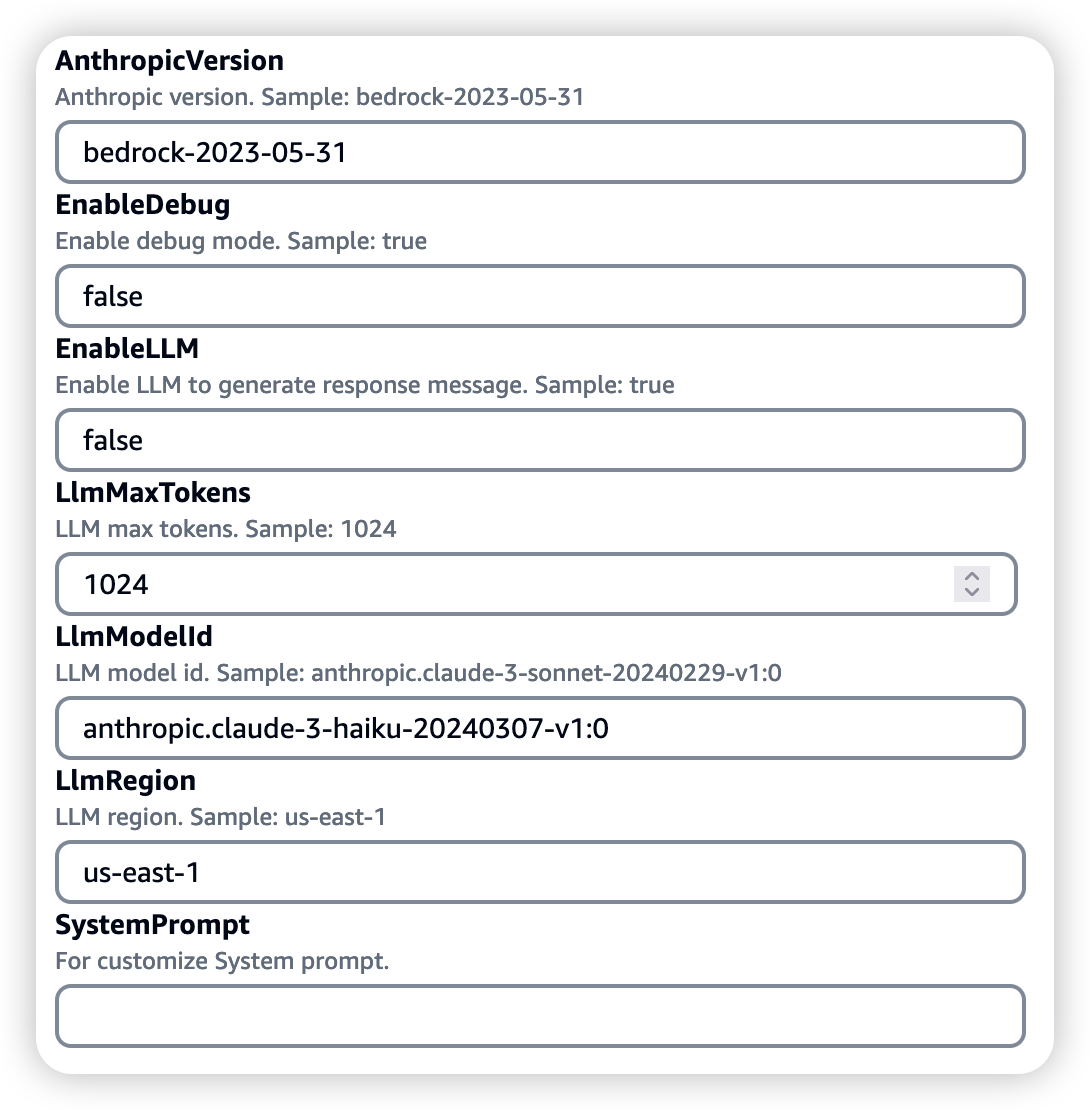
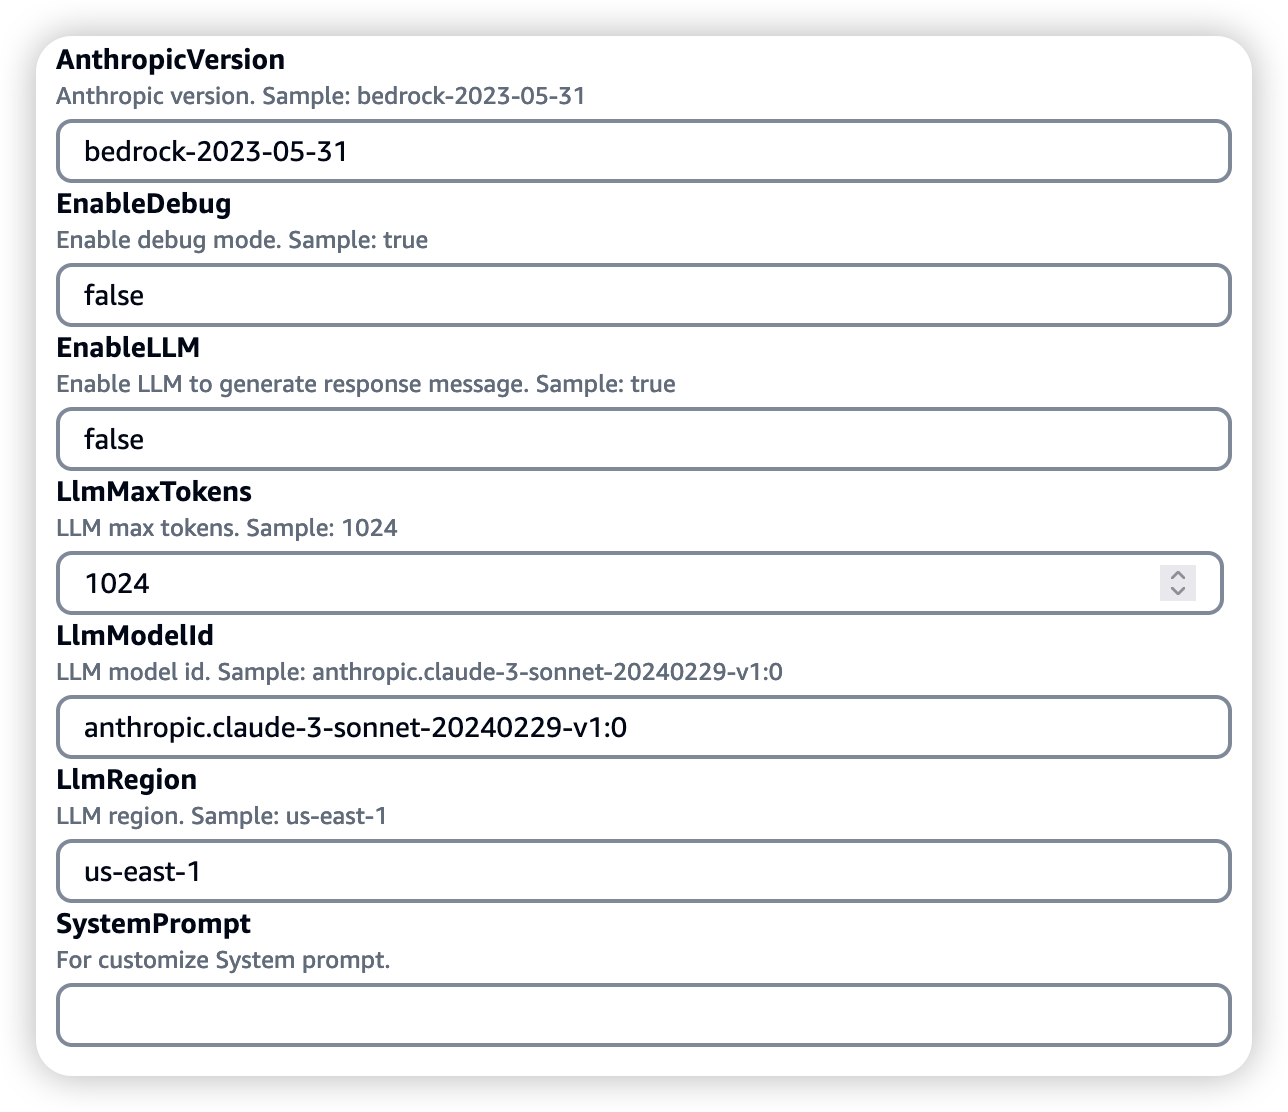
Update default LLM.

Changed region(s): [[0.0312, 0.0306, 0.9982, 0.9495], [0.9358, 0.0306, 0.967, 0.0613]]

diff --git a/layer/python/claude.py b/layer/python/claude.py
@@ -7,7 +7,7 @@ from botocore.exceptions import ClientError
 
 class claudeHelper:
 
-    def __init__(self, region="us-east-1", model_id="anthropic.claude-3-haiku-20240307-v1:0",
+    def __init__(self, region="us-east-1", model_id="anthropic.claude-3-sonnet-20240229-v1:0",
                  anthropic_version="bedrock-2023-05-31", max_tokens=1024, system_prompt="", enable_debug=False):
 
         self.enable_debug = enable_debug
